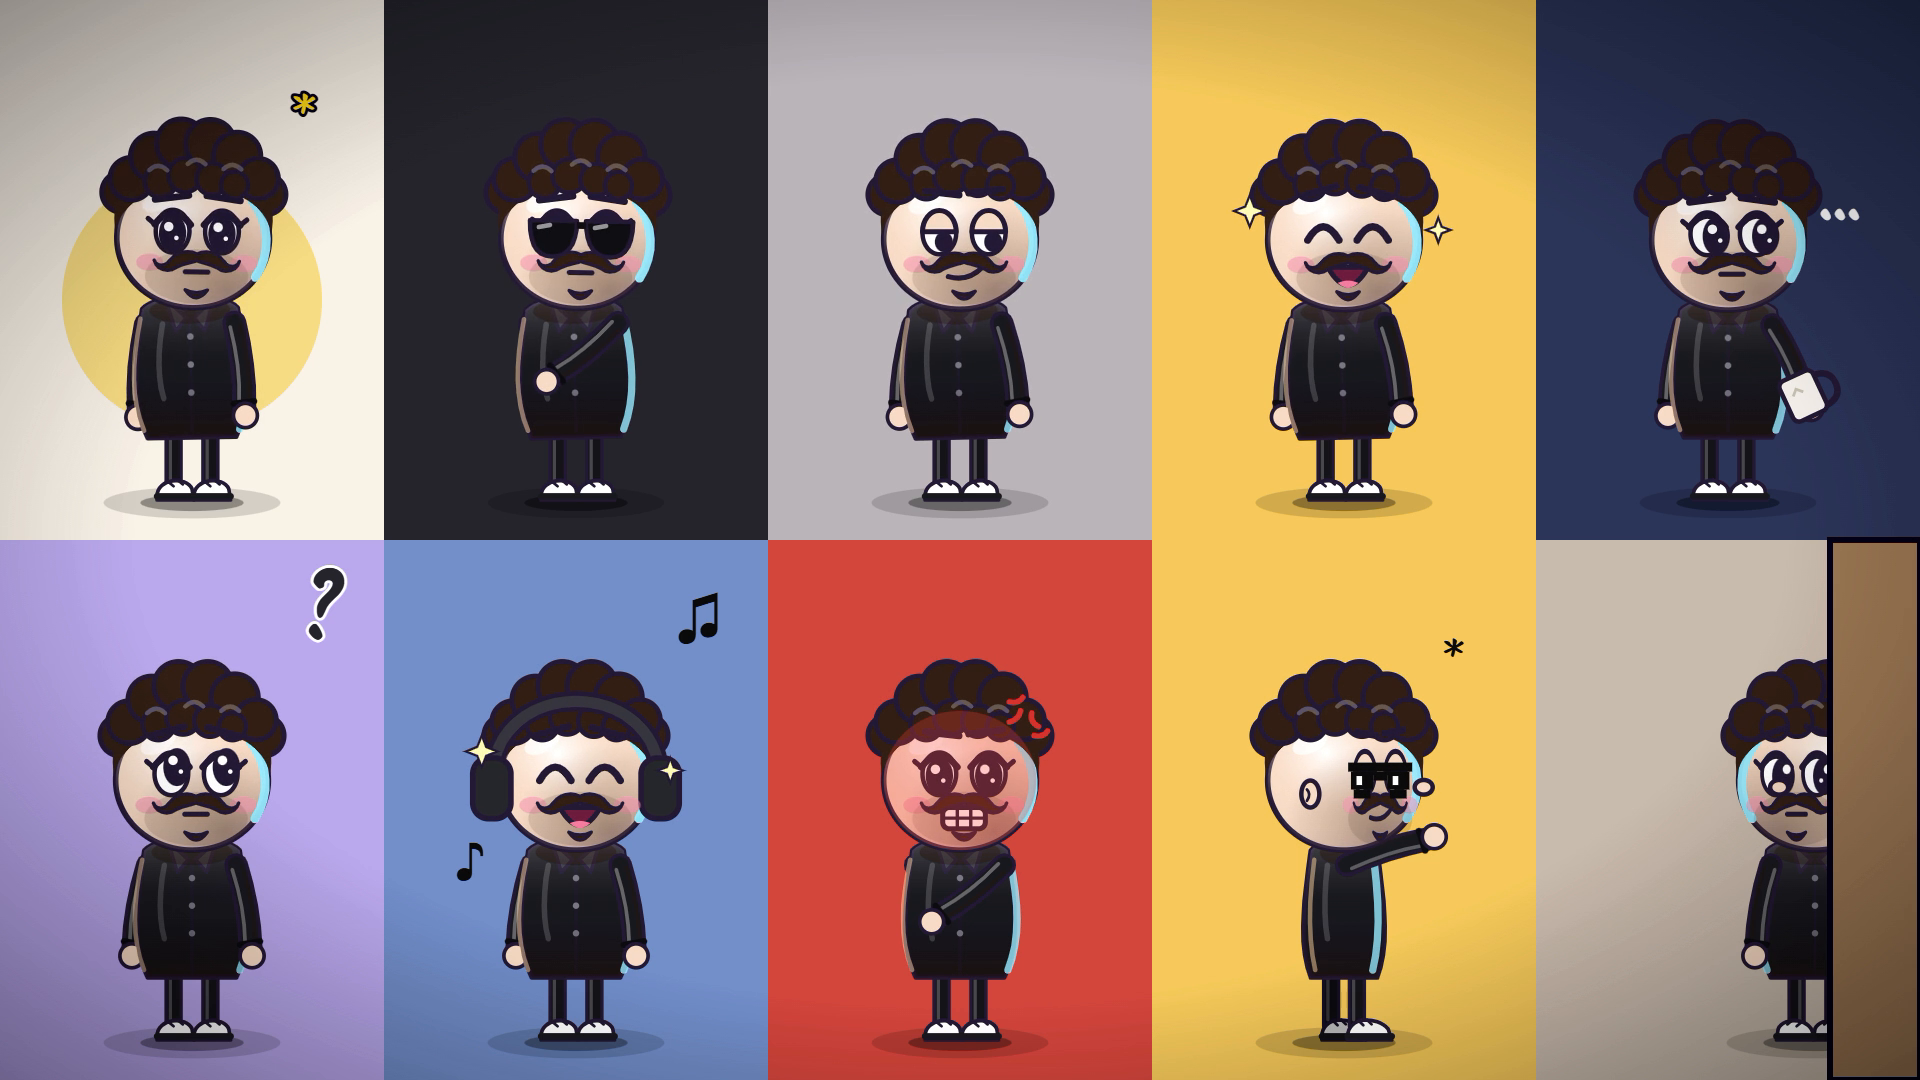
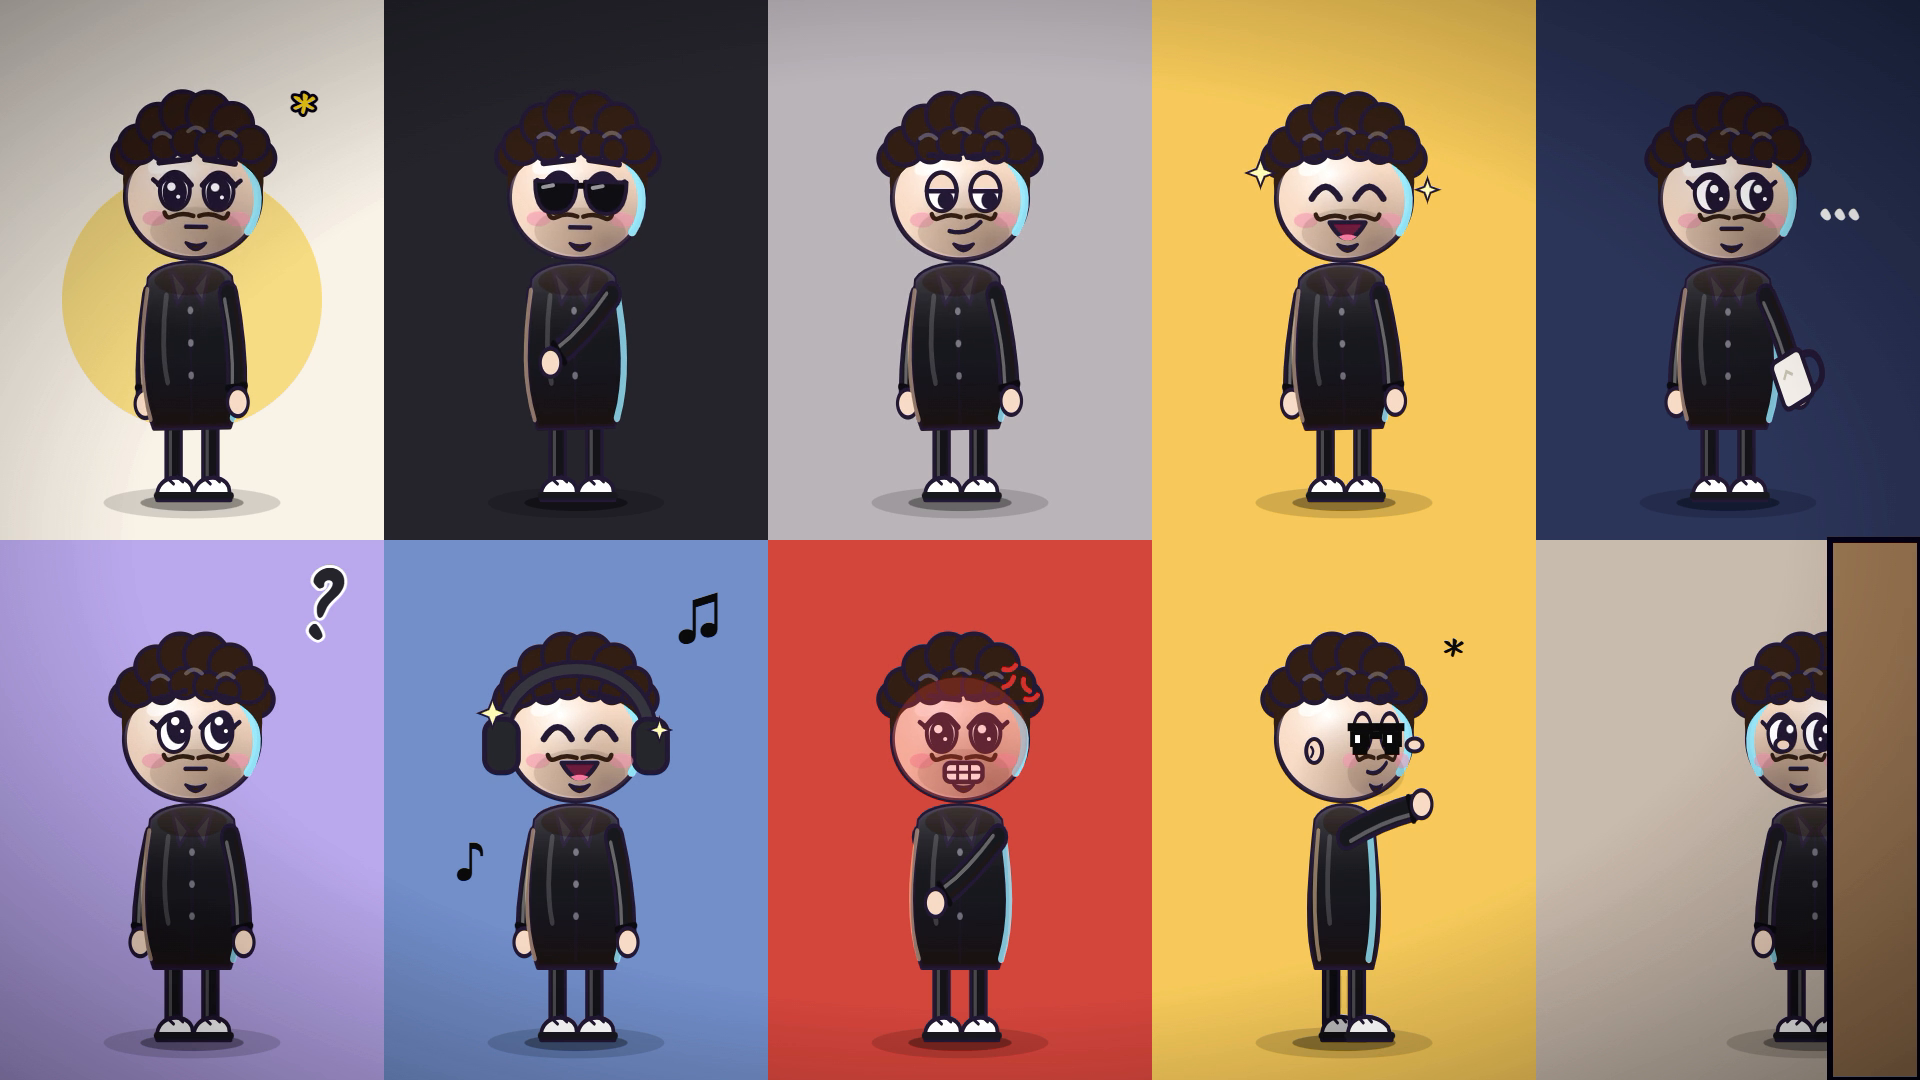
abid: thin curled moustache lower under the nose, taller (tall, headK options) and slim build

diff --git a/_kit/toon.js b/_kit/toon.js
@@ -55,7 +55,7 @@
     const LS = o.lightSide === 'left' ? -1 : 1, RIM = o.rim || '#8be9ff', FIL = o.fill || '#ffd29a', RIMR = LS > 0 ? RIM : FIL, RIML = LS > 0 ? FIL : RIM;
     // cast looks: outfit hoodie|tee|shirt|suit|coat|apron|vest|cardigan|uniform|dress, build slim|wide|kid
     const outfit = o.outfit || 'hoodie', hoodie = outfit === 'hoodie', SHORT = outfit === 'tee' || outfit === 'dress', SLV = outfit === 'coat' ? '#f4f6fa' : hood;
-    const KID = o.build === 'kid', bw = { slim: 0.86, wide: 1.17 }[o.build] || 1, HK = KID ? 1.42 : 1.22, HY = KID ? -268 : -282;
+    const KID = o.build === 'kid', bw = { slim: 0.86, wide: 1.17 }[o.build] || 1, HK = KID ? 1.42 : (o.headK || 1.22), TALL = o.tall || 1, HY = (KID ? -268 : -282) * TALL;
     // ---- age: 0 = young; ~15 first lines, 30 glasses + grey tufts, 50 grey brows, 60+ white hair + cane + stoop ----
     const age = o.age || 0, AT = Math.min(1, age / 70);
     const canePath = `<path d="M0,-4 L0,92" stroke="${PI}" stroke-width="11" stroke-linecap="round"/><path d="M0,-4 L0,92" stroke="#b4783a" stroke-width="6" stroke-linecap="round"/><path d="M-15,-6 Q-15,-24 0,-24 Q15,-24 15,-8" fill="none" stroke="${PI}" stroke-width="11" stroke-linecap="round"/><path d="M-15,-6 Q-15,-24 0,-24 Q15,-24 15,-8" fill="none" stroke="#b4783a" stroke-width="6" stroke-linecap="round"/>`;
@@ -85,7 +85,7 @@
       : o.hat === 'hardhat' ? `<path ${st(5)} fill="${hatC}" d="M-64,-40 C-66,-84 -32,-98 0,-98 C32,-98 66,-84 64,-40Z"/><path d="M0,-98 L0,-44" stroke="${PI}" stroke-width="5" opacity="0.5"/><ellipse ${st(5)} fill="${hatC}" cx="0" cy="-40" rx="86" ry="12"/>`
       : o.hat === 'chef' ? `<path ${st(5)} fill="${hatC}" d="M-48,-42 C-86,-66 -64,-128 -24,-114 C-14,-146 26,-146 32,-114 C70,-128 86,-66 48,-42Z"/><path ${st(5)} fill="${hatC}" d="M-50,-60 L50,-60 L50,-38 L-50,-38Z"/>`
       : `<path ${st(5)} fill="${hatC}" d="M-50,-44 C-54,-96 54,-96 50,-44Z"/><ellipse ${st(5)} fill="${hatC}" cx="0" cy="-42" rx="84" ry="13"/><path d="M-50,-56 L50,-56" stroke="#7a1f45" stroke-width="7"/>`;
-    const STACHE = o.stache === 'curl' ? `<path ${st(3)} fill="${HCOL}" d="M${fx},14 C${fx - 8},10 ${fx - 18},12 ${fx - 24},20 C${fx - 28},26 ${fx - 36},26 ${fx - 38},20 C${fx - 36},28 ${fx - 26},32 ${fx - 18},26 C${fx - 10},22 ${fx - 4},22 ${fx},20 C${fx + 4},22 ${fx + 10},22 ${fx + 18},26 C${fx + 26},32 ${fx + 36},28 ${fx + 38},20 C${fx + 36},26 ${fx + 28},26 ${fx + 24},20 C${fx + 18},12 ${fx + 8},10 ${fx},14Z"/>` : o.stache ? `<path ${st(3.5)} fill="${HCOL}" d="M${fx - 24},20 C${fx - 13},8 ${fx - 3},12 ${fx},16 C${fx + 3},12 ${fx + 13},8 ${fx + 24},20 C${fx + 12},26 ${fx - 12},26 ${fx - 24},20Z"/>` : '';
+    const STACHE = o.stache === 'curl' ? `<path fill="none" stroke="${HCOL}" stroke-width="4.5" stroke-linecap="round" stroke-linejoin="round" d="M${fx - 3},19 Q${fx - 14},15 ${fx - 24},20 Q${fx - 30},23 ${fx - 32},16 M${fx + 3},19 Q${fx + 14},15 ${fx + 24},20 Q${fx + 30},23 ${fx + 32},16"/>` : o.stache ? `<path ${st(3.5)} fill="${HCOL}" d="M${fx - 24},20 C${fx - 13},8 ${fx - 3},12 ${fx},16 C${fx + 3},12 ${fx + 13},8 ${fx + 24},20 C${fx + 12},26 ${fx - 12},26 ${fx - 24},20Z"/>` : '';
     const BEARD = o.beard === 'goatee' ? `<ellipse cx="${fx}" cy="34" rx="46" ry="24" fill="${HCOL}" opacity="0.13"/><path ${st(3)} fill="${HCOL}" d="M${fx - 10},46 Q${fx},60 ${fx + 10},46 Q${fx},51 ${fx - 10},46Z"/>` : o.beard ? `<path ${st(4)} fill="${HCOL}" d="M${fx - 60},4 C${fx - 58},78 ${fx + 58},78 ${fx + 60},4 C${fx + 40},24 ${fx - 40},24 ${fx - 60},4Z"/>` : '';
     const leg = (side) => { const x = side === 'l' ? -20 : 20, dir = side === 'l' ? -1 : 1;
       return `<g id="${id}-l${side === 'l' ? 'l' : 'r'}"><path d="M${x},-76 L${x},-16" fill="none" stroke="${PI}" stroke-width="20" stroke-linecap="round"/><path d="M${x},-76 L${x},-16" fill="none" stroke="${pants}" stroke-width="13" stroke-linecap="round"/>${V ? `<path d="M${x - 3.5},-72 L${x - 3.5},-22" fill="none" stroke="#fff" stroke-opacity="0.22" stroke-width="3.5" stroke-linecap="round"/>` : ''}
@@ -216,8 +216,8 @@
     const sc = o.scale || 1;
     return `<g id="${id}-pos"><g id="${id}" transform="translate(${o.x || 0},${o.y || 0}) scale(${(o.flip ? -1 : 1) * sc},${sc})">
       ${V ? '<ellipse fill="#000" opacity="0.14" cx="0" cy="3" rx="96" ry="17"/><ellipse fill="#000" opacity="0.32" cx="0" cy="3" rx="56" ry="9"/>' : '<ellipse fill="#000" opacity="0.22" cx="0" cy="3" rx="78" ry="13"/>'}
-      ${LEGS}${SKIRT}
-      <g transform="rotate(${stoop.toFixed(1)} 0 -70)"><g id="${id}-body">${bw !== 1 ? `<g transform="scale(${bw},1)">` : ''}${FARA}${BPS}${torsoV}${armsV[1]}${bw !== 1 ? '</g>' : ''}</g>
+      <g transform="scale(1,${TALL})">${LEGS}${SKIRT}</g>
+      <g transform="rotate(${stoop.toFixed(1)} 0 -70)"><g transform="scale(1,${TALL})"><g id="${id}-body">${bw !== 1 ? `<g transform="scale(${bw},1)">` : ''}${FARA}${BPS}${torsoV}${armsV[1]}${bw !== 1 ? '</g>' : ''}</g></g>
       ${head}</g>
     </g></g>`;
   }

diff --git a/_kit/scenes.js b/_kit/scenes.js
@@ -55,7 +55,7 @@
   // direction-aware characters: walk dx sets side view + mirror; dir 'away' = back view shrinking, 'toward' = front view growing
   // ---------- cast roles: "role":"dad" expands to a full look; any key you give yourself wins ----------
   const ROLES = {
-    abid: { style: "mascot", hair: "fluffy", hairCol: "#3a2418", skin: "#f6d6bd", stache: "curl", beard: "goatee", outfit: "shirt", shirt: "#1f1f26", hoodDark: "#131318", collar: "#3c3c4a", pants: "#1a1a20", eyes: "dark", curl: false },   // the user's own character (black shirt, curly hair, curled moustache)
+    abid: { style: "mascot", build: "slim", tall: 1.16, headK: 1.08, hair: "fluffy", hairCol: "#3a2418", skin: "#f6d6bd", stache: "curl", beard: "goatee", outfit: "shirt", shirt: "#1f1f26", hoodDark: "#131318", collar: "#3c3c4a", pants: "#1a1a20", eyes: "dark", curl: false },   // the user's own character (black shirt, curly hair, curled moustache)
     dad: { style: "mascot", skin: "#f1c8a0", age: 50, hair: "short", hairCol: "#8d8a96", outfit: "cardigan", shirt: "#6b7f5a", hoodDark: "#46573a", stache: true, glasses: true, curl: false },
     mom: { style: "mascot", skin: "#f5d6b8", age: 32, hair: "bun", hairCol: "#5a3825", outfit: "cardigan", shirt: "#c96f8a", hoodDark: "#8d4a60", skirt: "#4a3f6e", glasses: false, curl: false },
     grandpa: { style: "mascot", skin: "#e8c4a0", age: 72, outfit: "cardigan", shirt: "#8a7a5a", hoodDark: "#5e533c", stache: true, curl: false },

diff --git a/LIBRARY.md b/LIBRARY.md
@@ -25,7 +25,7 @@ Spec = one scene with `"type":"thumb"`: `bg` (any env, or `white`), `text` (`["T
 `bash new-clip.sh S1` makes **Short 1** (stored as clip 90; S2 = clip 91 ...): pairs the files named `Short 1 - Voice-over.mp3` (name must contain "Short" + the number) with `Short 1 - ....txt` in `Voice-overs Chunks/` and `Transcript Chunks/`, writes `meta.json` with `"portrait": true` and a 1080x1920 `index.html`. Then `python3 scene.py 90 specs/short1.json` and `bash render-clip.sh S1` -> `renders/Short 1.mp4`. The same scene specs and kit work: the scene is cropped to a 607.5x1080 slice of the 1920x1080 stage (x 656..1264, centred on x=960, scaled 1.78x; vector art stays sharp). **Keep the hero, number badges and text inside x 690..1230**; aim the camera with `cam:{fx:<hero x>}` to follow someone elsewhere. Hero `scale` about 1.8-2.4 fills the frame; captions in the top third (y < 400) or bottom third; leave y > 1700 clear of text (YouTube UI). Tested: 1080x1920 render of a street + hero + number badge (frame checked). No voice-over yet? `SILENT=45 bash new-clip.sh S1` makes a silent 45 s project (hand-set scene times, add the voice later). Portrait text rules (learned from Short 1): `pop` items must fit about 540 px: font size about 940 / number of characters (12 letters -> fs 70), split long lines; captions on a dark rounded pill (`rect` fill #0b0620 opacity .6) so they stay readable; hero scale 1.75 at y 1040 leaves room above the head for a caption (y 60-230) AND a number tag. Working example: `specs/short_trust.json` (8 scenes, 45 s). **Layout rules (user, 2026-11-19):** centre text blocks vertically (equal space above and below, never pushed to the bottom: for the 1080-tall stage a block's centre is y about 540); every side character must LOOK like its role and age, never a recoloured copy of the hero: use `style:"pear"` with different `hair`, `hairCol`, `skin`, `shirt`, `suit`+`tie`, `stache`, `glasses` (dad = grey hair + stache + glasses + cardigan colour, boss = suit + tie, friend = other skin tone and hair), and only the hero is the yellow mascot (aged hero: `age`). Cast test sheet: `thumbnails/castcheck_1280x720.jpg`.
 
 ## The user's own character: `"role":"abid"` (2026-11-20, from the user's reference sheet) - picture docs/ABID_CHARACTER.png
-Messy curly dark hair (`hair:"fluffy"`), curled moustache (`stache:"curl"`), goatee + stubble (`beard:"goatee"`), big dark pupils (`eyes:"dark"`), black shirt with collar + light buttons (`outfit:"shirt", collar`), black trousers, white sneakers. Extras for any mascot: `shades:"black"|"pixel"`, `headphones:true|"#col"`, `hold:"mug"` (mug in the hand, `holdSide`), timed expressions `exprAt:[[t,"joy"|"angry"|"smug"...]]`. Sheet spec: `specs/abid_character_sheet.json` (10 poses: neutral, shades + crossed arms, smug, laughing, mug, question, headphones, angry, pixel shades point, peek behind a door). Not yet the default hero: the yellow-hoodie mascot stays default until the user says so.
+Taller + slimmer than the default mascot (`tall:1.16, headK:1.08, build:"slim"`; `tall`/`headK` work on any mascot). Messy curly dark hair (`hair:"fluffy"`), thin curled moustache with a gap under the nose (`stache:"curl"`), goatee + stubble (`beard:"goatee"`), big dark pupils (`eyes:"dark"`), black shirt with collar + light buttons (`outfit:"shirt", collar`), black trousers, white sneakers. Extras for any mascot: `shades:"black"|"pixel"`, `headphones:true|"#col"`, `hold:"mug"` (mug in the hand, `holdSide`), timed expressions `exprAt:[[t,"joy"|"angry"|"smug"...]]`. Sheet spec: `specs/abid_character_sheet.json` (10 poses: neutral, shades + crossed arms, smug, laughing, mug, question, headphones, angry, pixel shades point, peek behind a door). Not yet the default hero: the yellow-hoodie mascot stays default until the user says so.
 
 ## Long-video pieces (built for V02 clips 1-2, 2026-11-19)
 - `"phone":{x,y,k,screen:"lock"|"call",time,date,name,sub}` on a stage scene: a phone held in a hand; characters placed in the screen are clipped to it (a photo, a video call) and their tags glow on the screen. Groups `#<sid>-phb/-phc/-phf` (+ `#<sid>-tgw0`) shake together. Put the character low (e.g. role mom, y 1065, scale 1.5) so the tag sits under the lock-screen clock.
